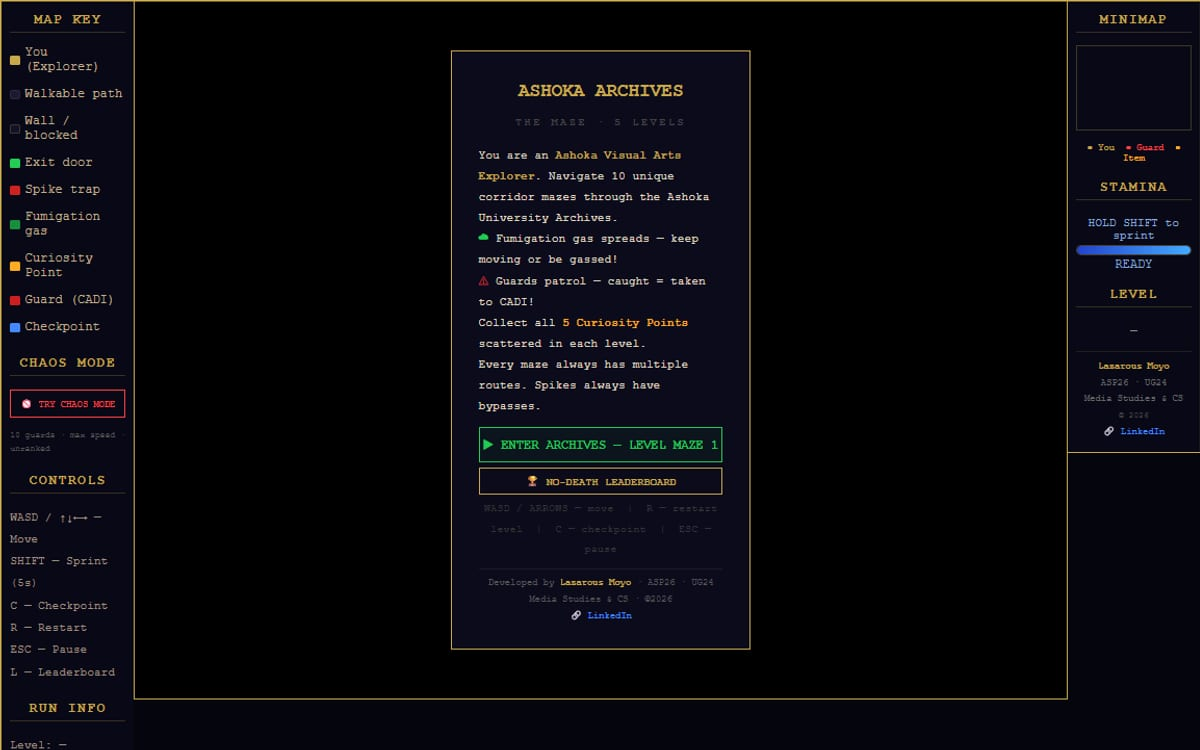
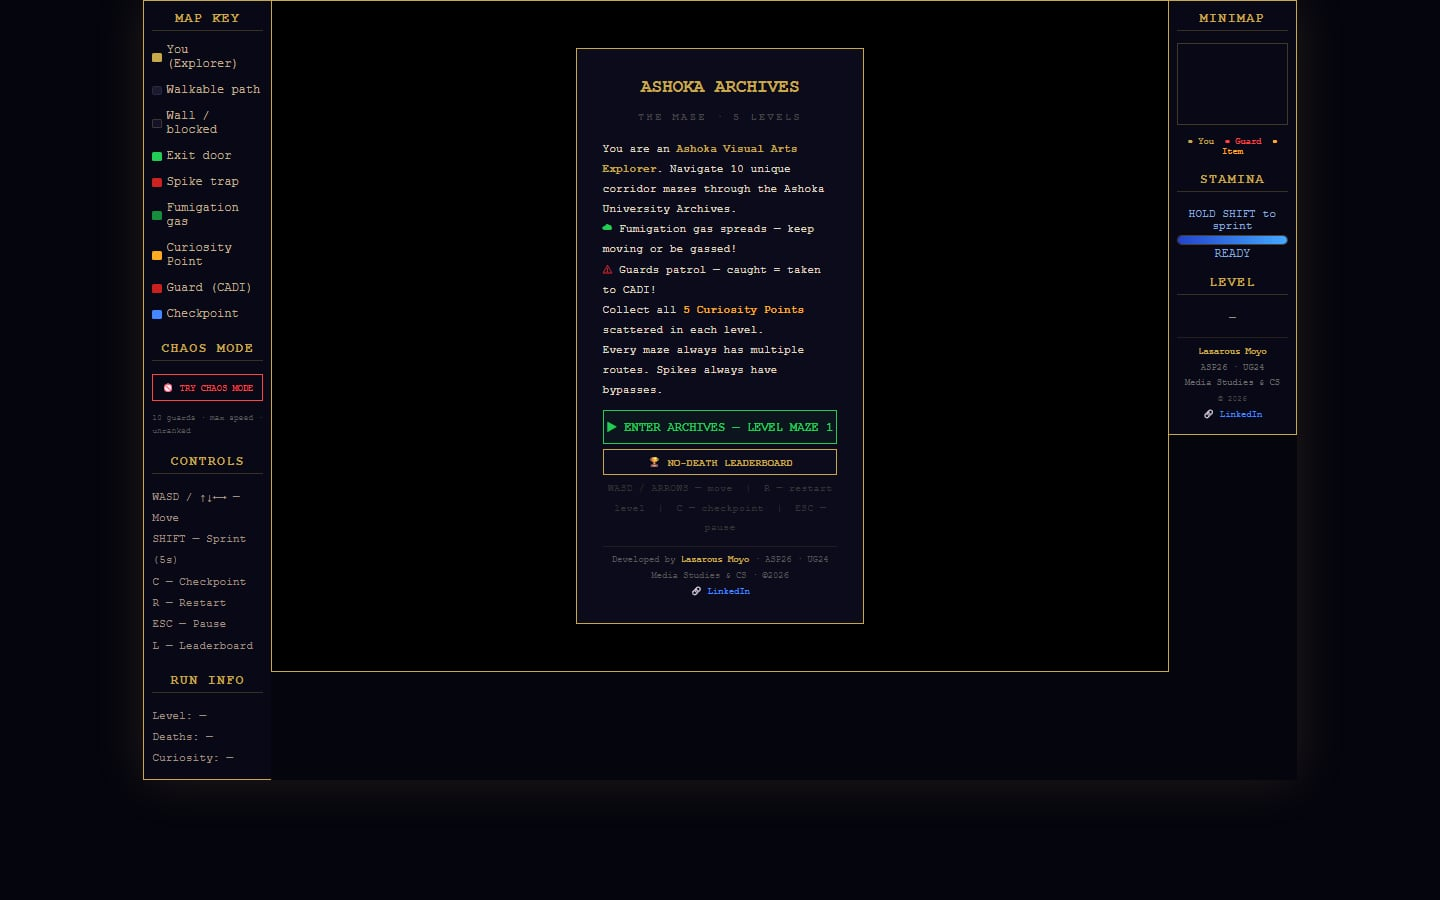
Show projects in browser and app windows instead of cropped images

diff --git a/components/home/projects.tsx b/components/home/projects.tsx
@@ -8,6 +8,7 @@ import type { RepoStats } from "@/lib/github";
 import { profile } from "@/lib/site";
 import { cn, formatMonth } from "@/lib/utils";
 import { AudioMidiVisual, VentilationVisual } from "./project-visuals";
+import { WindowFrame } from "./window-frame";
 
 const tones: Record<Project["status"]["tone"], string> = {
   live: "border-accent/40 text-accent",
@@ -15,20 +16,28 @@ const tones: Record<Project["status"]["tone"], string> = {
   research: "border-ink-3/40 text-ink-2",
 };
 
+/** The project shown whole inside a window: a browser for websites, an app window for illustrations. */
 function Visual({ project }: { project: Project }) {
   const v = project.visual;
-  if (v.kind === "image") {
-    return (
-      <Image
-        src={v.src}
-        alt={v.alt}
-        fill
-        sizes="(min-width: 1024px) 560px, 100vw"
-        className="object-cover transition-transform duration-700 ease-apple group-hover:scale-[1.03]"
-      />
+  if (v.kind === "screenshot") {
+    const frame = (
+      <WindowFrame address={v.url}>
+        <Image src={v.src} alt={v.alt} width={v.width} height={v.height} sizes="(min-width: 1024px) 500px, 92vw" className="block h-auto w-full" />
+      </WindowFrame>
+    );
+    return project.links.live ? (
+      <a href={project.links.live} target="_blank" rel="noopener noreferrer" aria-label={`Open ${project.title} (live site)`} className="block rounded-xl">
+        {frame}
+      </a>
+    ) : (
+      frame
     );
   }
-  return v.kind === "audio-midi" ? <AudioMidiVisual /> : <VentilationVisual />;
+  return (
+    <WindowFrame title={v.title}>
+      <div className="aspect-[16/10]">{v.kind === "audio-midi" ? <AudioMidiVisual /> : <VentilationVisual />}</div>
+    </WindowFrame>
+  );
 }
 
 function ExtLink({ href, children }: { href: string; children: React.ReactNode }) {
@@ -50,8 +59,24 @@ function ProjectCard({ project, index, stats }: { project: Project; index: numbe
   return (
     <RevealItem>
       <article className="panel group grid overflow-hidden lg:grid-cols-2">
-        <div className={cn("relative aspect-[16/10] overflow-hidden border-b bg-raised lg:aspect-auto lg:min-h-[420px] lg:border-b-0", flip ? "lg:order-2 lg:border-l" : "lg:border-r")}>
-          <Visual project={project} />
+        <div
+          className={cn(
+            "relative flex items-center justify-center overflow-hidden border-b bg-raised/40 p-4 sm:p-8 lg:border-b-0",
+            flip ? "lg:order-2 lg:border-l" : "lg:border-r",
+          )}
+        >
+          {/* Dotted backdrop, like a design canvas */}
+          <div
+            aria-hidden
+            className="absolute inset-0 opacity-70"
+            style={{
+              backgroundImage: "radial-gradient(rgb(var(--line) / calc(var(--line-alpha) * 1.6)) 1px, transparent 1px)",
+              backgroundSize: "18px 18px",
+            }}
+          />
+          <div className="relative w-full transition-transform duration-500 ease-apple group-hover:-translate-y-1">
+            <Visual project={project} />
+          </div>
         </div>
         <div className="flex flex-col p-6 md:p-9">
           <div className="flex flex-wrap items-center gap-3">

diff --git a/lib/content/projects.ts b/lib/content/projects.ts
@@ -1,7 +1,9 @@
 export type ProjectVisual =
-  | { kind: "image"; src: string; alt: string }
-  | { kind: "audio-midi" }
-  | { kind: "ventilation" };
+  /** A screenshot shown whole inside a browser window, with the site's address in the bar. */
+  | { kind: "screenshot"; src: string; alt: string; width: number; height: number; url: string }
+  /** An illustration shown inside an app window. */
+  | { kind: "audio-midi"; title: string }
+  | { kind: "ventilation"; title: string };
 
 export interface Project {
   /** GitHub repository name under Sh0tgvn45off. Used to fetch live stats. */
@@ -32,7 +34,14 @@ export const projects: Project[] = [
       "Exhibited live at the VA/MS Exhibition 2026, Ashoka University",
     ],
     stack: ["JavaScript", "HTML5 Canvas", "BFS", "Gamepad API", "Apps Script"],
-    visual: { kind: "image", src: "/images/projects/ashoka-maze.jpg", alt: "Title screen of Ashoka Archives: The Maze" },
+    visual: {
+      kind: "screenshot",
+      src: "/images/projects/ashoka-maze.jpg",
+      alt: "Title screen of Ashoka Archives: The Maze, with the map key, controls and minimap around the maze",
+      width: 1440,
+      height: 900,
+      url: "ashoka-archives-the-maze.vercel.app",
+    },
     links: {
       live: "https://ashoka-archives-the-maze.vercel.app",
       post: "https://www.linkedin.com/posts/lazarous-moyo_gamedev-javascript-html5canvas-ugcPost-7460763433529987073-XMFh/",
@@ -52,7 +61,7 @@ export const projects: Project[] = [
       "Next: move the stable engine into C++/JUCE as a VST3 plugin",
     ],
     stack: ["Python", "pYIN", "MIDI", "DSP", "JUCE (planned)"],
-    visual: { kind: "audio-midi" },
+    visual: { kind: "audio-midi", title: "audio-to-instrument · v0.1 prototype" },
     links: {},
   },
   {
@@ -69,7 +78,7 @@ export const projects: Project[] = [
       "Built on MIMIC-III, with off-policy evaluation and subgroup analysis",
     ],
     stack: ["Python", "XGBoost", "Offline RL (CQL)", "MIMIC-III", "Jupyter"],
-    visual: { kind: "ventilation" },
+    visual: { kind: "ventilation", title: "mp_personalisation_pipeline.ipynb" },
     links: {},
   },
   {
@@ -86,7 +95,14 @@ export const projects: Project[] = [
       "Deployed on Vercel with a custom domain",
     ],
     stack: ["Next.js", "TypeScript", "Tailwind CSS", "Framer Motion", "Vercel"],
-    visual: { kind: "image", src: "/images/projects/ecolight.jpg", alt: "Home page of the EcoLight Innovations website" },
+    visual: {
+      kind: "screenshot",
+      src: "/images/projects/ecolight.jpg",
+      alt: "Home page of the EcoLight Innovations website: Light, beyond the grid",
+      width: 1440,
+      height: 900,
+      url: "www.ecolightinnovation.com",
+    },
     links: { live: "https://www.ecolightinnovation.com" },
   },
 ];

diff --git a/components/home/window-frame.tsx b/components/home/window-frame.tsx
@@ -1,0 +1,46 @@
+import { Lock } from "lucide-react";
+import { cn } from "@/lib/utils";
+
+/**
+ * A desktop window: traffic lights plus either an address bar (for websites) or a title (for apps).
+ * Content inside is shown whole, never cropped.
+ */
+export function WindowFrame({
+  address,
+  title,
+  children,
+  className,
+}: {
+  address?: string;
+  title?: string;
+  children: React.ReactNode;
+  className?: string;
+}) {
+  return (
+    <div
+      className={cn(
+        "w-full overflow-hidden rounded-xl border bg-surface shadow-[0_30px_70px_-35px_rgba(0,0,0,0.7)]",
+        className,
+      )}
+    >
+      <div className="flex items-center gap-3 border-b bg-raised px-3.5 py-2.5">
+        <div aria-hidden className="flex shrink-0 gap-1.5">
+          <span className="size-2.5 rounded-full bg-[#FF5F57]" />
+          <span className="size-2.5 rounded-full bg-[#FEBC2E]" />
+          <span className="size-2.5 rounded-full bg-[#28C840]" />
+        </div>
+        {address ? (
+          <div className="mx-auto flex min-w-0 max-w-[78%] flex-1 items-center justify-center gap-1.5 rounded-md bg-bg/70 px-3 py-1 font-mono text-[11px] text-ink-3">
+            <Lock aria-hidden className="size-3 shrink-0" />
+            <span className="truncate">{address}</span>
+          </div>
+        ) : (
+          <p className="mx-auto min-w-0 truncate font-mono text-[11px] text-ink-3">{title}</p>
+        )}
+        {/* Balances the traffic lights so the bar stays centred. */}
+        <div aria-hidden className="w-[42px] shrink-0" />
+      </div>
+      {children}
+    </div>
+  );
+}
